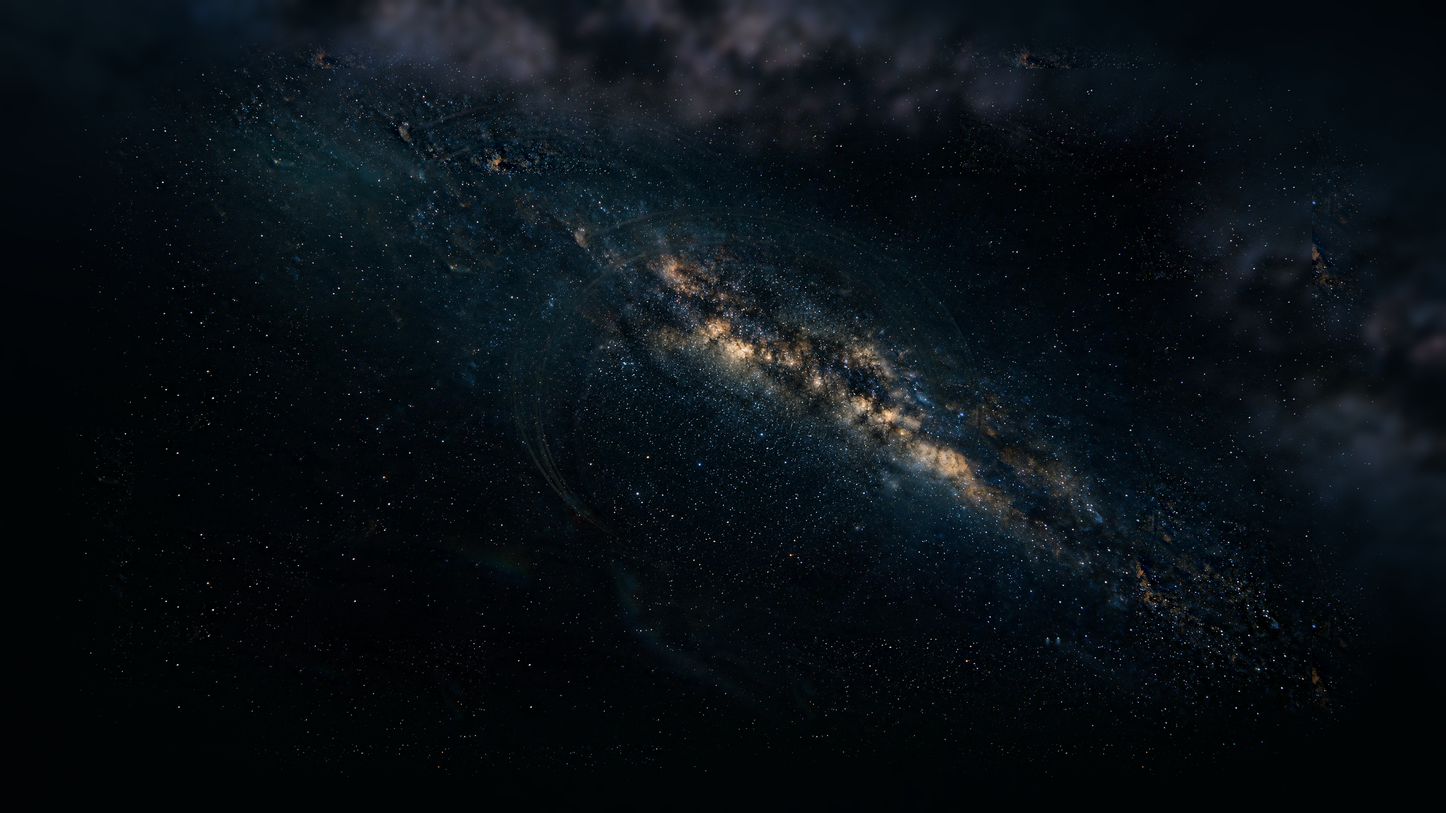
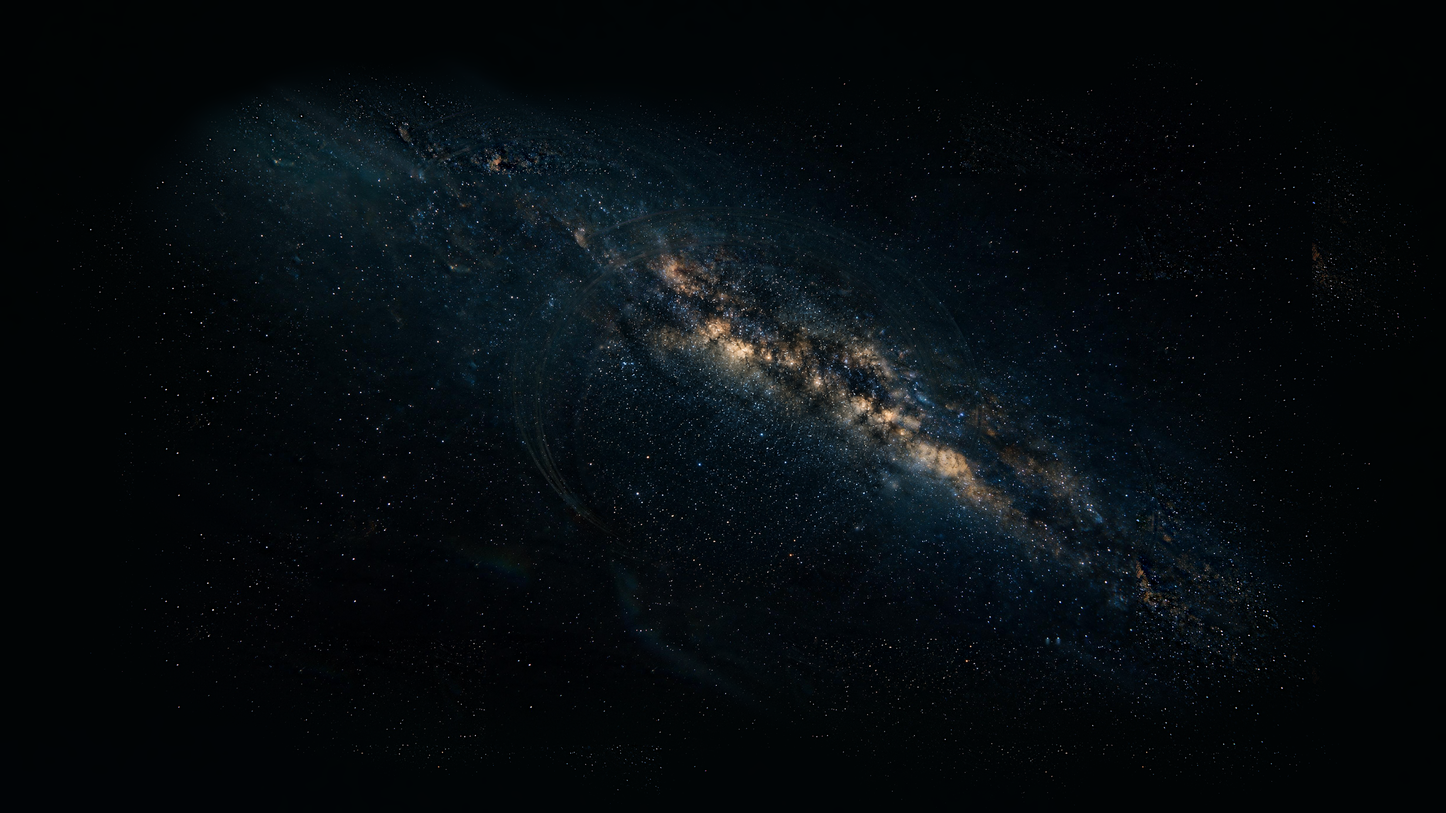
uranus round 3: hold sky patch margin fitted to Saturn's new shared sky, checks on the final tree

diff --git a/assets-src/uranus/NOTES.md b/assets-src/uranus/NOTES.md
@@ -533,3 +533,11 @@ READY format: "READY <commit> round 3", per item what changed, what is still wea
 - 20:01 FULL MEASURE on the final tree (engine f854c8146f64c7e4, uranus 5afa91dfab8a6bc7): G13 PASS 0 of 463 (worst 4424 0.65 percent, 4425 0.11, 4423 0.01); G5 PASS (4035 0.195, 4137 0.263, 4290 0.519, 4436 0.144, invalid 0); G17 PASS (4035 median 1.177 p25 1.082 over 70 tiles; 4290 median 1.053 p25 0.939 over 59 tiles). 1013 s. The same numbers as at 18:02.
 - 20:02 origin/main moved to a241fa8 (status, scorecards of rounds 23 and 25, `kit/PROGRESS.md`, `out/clips/neptune.mp4`, `tools/master.py`): no engine file, no stop file. To be merged after the chain, before READY (a merge while a sheet renders could rebuild the tools' dist under it).
 - 20:19 dive cover sheet at review on the final tree (4159 to 4170), tile by tile, 4159 at full size: 4159 to 4168 full haze with rush streaks and the bright band sliding steadily, one faint limb line at 4159, no slab, no stacked copies, swap at 4164 not seen; 4169 the dim horizon and two arcs through broken haze, 4170 brighter. As at 18:20.
+- 20:35 rise sheet at review on the final tree (`out/work/sheets/uranus.rise-16x9-review.png`, frames in `out/work/u/r4/rs7/`): equal to the sheet of 17:19 within 4 levels (4400, 4420, 4427, 4434, 4447 compared pixel by pixel; the rise does not see Saturn's sky). Tiles: 4380 to 4393 terrain with the Sun's flare; 4400 haze entering; 4407, 4414 full cover; 4420 one soft limb under thinning haze with the band behind; 4427 globe large, clouds motion blurred, band behind, the faint dark fan of blurred ring arcs upper right (4427 viewed at full size); 4434 to 4454 globe at 0.68 of the width, the band behind it on the right, sparse stars on the left.
+- 20:55 rise cover sheet at review on the final tree (4405 to 4416): 4405 near full haze with one dim blue line in a hole (no bright sliver); 4406 to 4413 full haze, the bright band sliding steadily; 4414 the Sun as a point; 4415, 4416 one limb line under thinning haze, stars returning at 4416. No stacked copies.
+- 20:56 compare terrain at final: 4290 beside the approved as at 18:26 (limb, Sun, deck, arcs in place; the bright strokes near the Sun thicker than approved; limb line as before).
+- 21:00 final stills `out/work/u/r4/fin7-4137.png`, `fin7-4436.png` viewed. 4137: globe with motion blurred clouds in the lower half, the ring fan as smooth blurred strands on a black sky with sparse stars, no veil blocks, no border; against the still of 18:29 the globe is equal within 1 level, the sky top left lost the old band (mean 41 levels darker). 4436: equal to 18:29 within 2 levels. Review stills 4200 and 4379 equal to 18:34 within 2 levels.
+- 21:02 build ok; vitest 62 of 62 in 13 files; G11 PASS; G15 PASS (uranus full 1281 MB, web 326 MB; mars 1386, 414).
+- Turns per frame (`out/work/u/dbg/turns.ts`): rise peak 6.0 degrees at 4424 and 4425, 5.0 at 4420, 0.2 at 4436, 0 from 4438; dive peak 3.8 at 4142 and 4143.
+- 21:08 travel probe: uranus.travel join in at 4455 turn 0.002 to 0.001 deg per frame, speed 7.96e-2 to 8.00e-2, fov 30 to 30; departing body in view 4455 to 4476.
+- 21:08 `npm run -s budget -- --stop uranus` at the end of the chain ended with an error at `tools/budget.ts:68` (a frame time at one tier); run again alone (`/tmp/budget7.log`).
